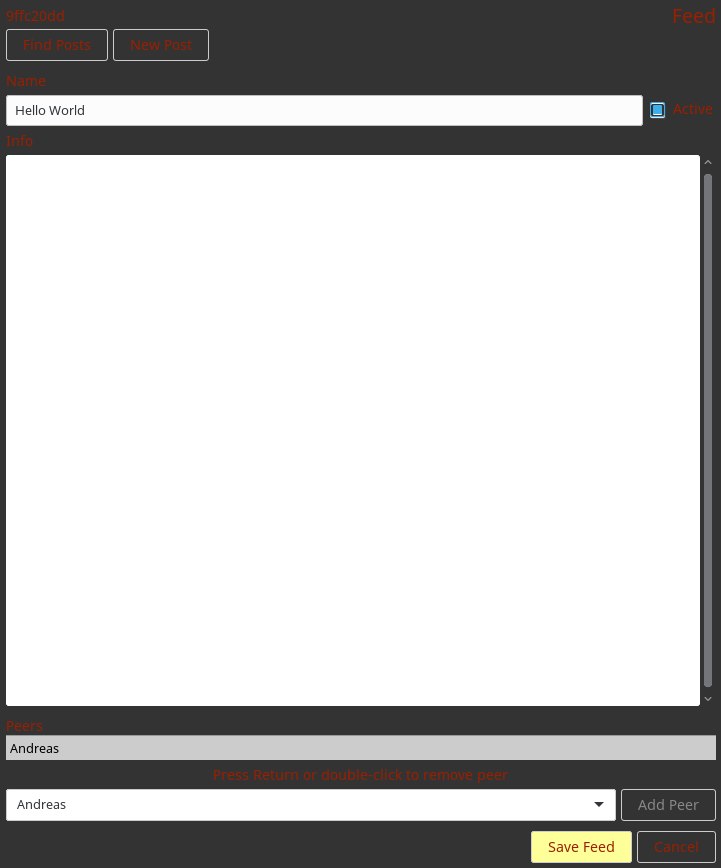
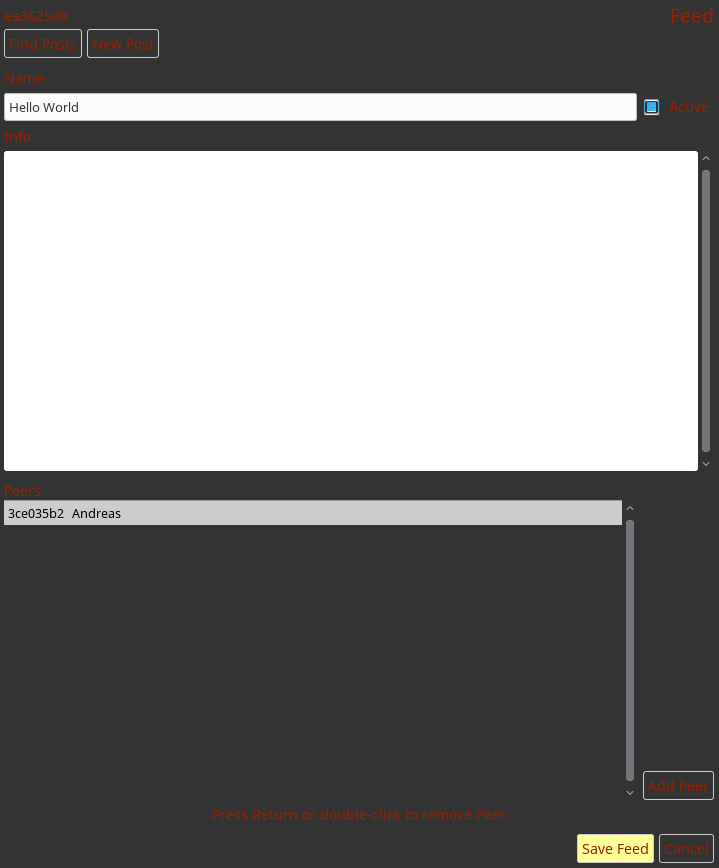
removed view init

diff --git a/src/snackis/gui/project_view.cpp b/src/snackis/gui/project_view.cpp
@@ -10,20 +10,6 @@
 
 namespace snackis {
 namespace gui {
-  ProjectView::ProjectView(const Project &rec):
-    RecView<Project>("Project", rec),
-    find_tasks_btn(gtk_button_new_with_mnemonic("_Find Tasks")),
-    new_task_btn(gtk_button_new_with_mnemonic("New _Task")),
-    find_posts_btn(gtk_button_new_with_mnemonic("Find Posts")),
-    post_btn(gtk_button_new_with_mnemonic("New _Post")),
-    name_fld(gtk_entry_new()),
-    active_fld(gtk_check_button_new_with_label("Active")),    
-    info_fld(new_text_view()),
-    peer_lst(ctx, "Peer", this->rec.peer_ids)
-  {
-    load(peer_lst);
-  }
-
   static void on_find_tasks(gpointer *_, ProjectView *v) {
     TaskSearch *ts = new TaskSearch(v->ctx);
     ts->project.emplace(v->rec);
@@ -54,8 +40,18 @@ namespace gui {
 
     db::commit(trans);
   }
-  
-  void ProjectView::init() {
+
+  ProjectView::ProjectView(const Project &rec):
+    RecView<Project>("Project", rec),
+    find_tasks_btn(gtk_button_new_with_mnemonic("_Find Tasks")),
+    new_task_btn(gtk_button_new_with_mnemonic("New _Task")),
+    find_posts_btn(gtk_button_new_with_mnemonic("Find Posts")),
+    post_btn(gtk_button_new_with_mnemonic("New _Post")),
+    name_fld(gtk_entry_new()),
+    active_fld(gtk_check_button_new_with_label("Active")),    
+    info_fld(new_text_view()),
+    peer_lst(ctx, "Peer", this->rec.peer_ids)
+  {
     GtkWidget *lbl;
 
     GtkWidget *btns = gtk_box_new(GTK_ORIENTATION_HORIZONTAL, 5);
@@ -90,6 +86,7 @@ namespace gui {
     gtk_widget_set_margin_top(peer_lst.ptr(), 5);
     gtk_container_add(GTK_CONTAINER(fields), peer_lst.ptr());
 
+    load(peer_lst);
     focused = name_fld;
   }
 

diff --git a/src/snackis/gui/search_view.hpp b/src/snackis/gui/search_view.hpp
@@ -19,8 +19,7 @@ namespace gui {
     GtkWidget *fields, *find_btn, *list, *cancel_btn;
     OnActivate on_activate;
     
-    SearchView(Ctx &ctx, const str &lbl, GtkListStore *store, OnActivate act);
-    virtual void init() override;
+    SearchView(Ctx &ctx, const str &type, GtkListStore *store, OnActivate act);
     virtual void find()=0;
   };
 
@@ -48,20 +47,17 @@ namespace gui {
   
   template <typename RecT>
   SearchView<RecT>::SearchView(Ctx &ctx,
-			       const str &lbl,
+			       const str &type,
 			       GtkListStore *store,
 			       OnActivate act):
-    View(ctx, fmt("%0 Search", lbl)),
+    View(ctx, fmt("%0 Search", type)),
     store(store),
     fields(gtk_box_new(GTK_ORIENTATION_VERTICAL, 5)),
-    find_btn(gtk_button_new_with_mnemonic(fmt("_Find %0s", lbl).c_str())),
+    find_btn(gtk_button_new_with_mnemonic(fmt("_Find %0s", type).c_str())),
     list(new_tree_view(GTK_TREE_MODEL(store))),
     cancel_btn(gtk_button_new_with_mnemonic("_Cancel")),
     on_activate(act)
-  { }
-
-  template <typename RecT>
-  void SearchView<RecT>::init() {
+  {
     GtkWidget *lbl;
     gtk_box_pack_start(GTK_BOX(panel), fields, false, false, 0);
     
@@ -75,7 +71,8 @@ namespace gui {
 		     G_CALLBACK(on_search_activate<RecT>),
 		     this);
     gtk_container_add(GTK_CONTAINER(panel), gtk_widget_get_parent(list));
-    lbl = gtk_label_new("Press Return or double-click to select");
+    lbl = gtk_label_new(fmt("Press Return or double-click to select %0",
+			    type).c_str());
     gtk_container_add(GTK_CONTAINER(panel), lbl);
 
     GtkWidget *btns = gtk_box_new(GTK_ORIENTATION_HORIZONTAL, 5);

diff --git a/src/snackis/gui/task_view.cpp b/src/snackis/gui/task_view.cpp
@@ -50,19 +50,6 @@ namespace gui {
     }
   }
 
-  TaskView::TaskView(const Task &rec):
-    RecView("Task", rec),
-    project_store(gtk_list_store_new(3, G_TYPE_POINTER,
-				     G_TYPE_STRING, G_TYPE_STRING)),
-    find_posts_btn(gtk_button_new_with_mnemonic("_Find Posts")),
-    post_btn(gtk_button_new_with_mnemonic("New _Post")),
-    project_fld(new_combo_box(GTK_TREE_MODEL(project_store))),
-    edit_project_btn(gtk_button_new_with_mnemonic("_Edit Project")),
-    name_fld(gtk_entry_new()),
-    done_fld(gtk_check_button_new_with_mnemonic("_Done")),
-    info_fld(new_text_view()) {
-  }
-
   static void on_find_posts(gpointer *_, TaskView *v) {
     PostSearch *ps = new PostSearch(v->ctx);
     select<Feed>(ps->feed_fld, get_feed_id(v->ctx, v->rec.id));
@@ -80,8 +67,19 @@ namespace gui {
 
     db::commit(trans);
   }
-  
-  void TaskView::init() {
+
+  TaskView::TaskView(const Task &rec):
+    RecView("Task", rec),
+    project_store(gtk_list_store_new(3, G_TYPE_POINTER,
+				     G_TYPE_STRING, G_TYPE_STRING)),
+    find_posts_btn(gtk_button_new_with_mnemonic("_Find Posts")),
+    post_btn(gtk_button_new_with_mnemonic("New _Post")),
+    project_fld(new_combo_box(GTK_TREE_MODEL(project_store))),
+    edit_project_btn(gtk_button_new_with_mnemonic("_Edit Project")),
+    name_fld(gtk_entry_new()),
+    done_fld(gtk_check_button_new_with_mnemonic("_Done")),
+    info_fld(new_text_view())
+  {
     GtkWidget *lbl;
 
     GtkWidget *btns = gtk_box_new(GTK_ORIENTATION_HORIZONTAL, 5);

diff --git a/src/snackis/gui/encrypt.cpp b/src/snackis/gui/encrypt.cpp
@@ -57,18 +57,24 @@ namespace gui {
 
   static void on_save(gpointer *_, Encrypt *v) {
     Ctx &ctx(v->ctx);
-    const str
-      in_path(gtk_entry_get_text(GTK_ENTRY(v->source))),
-      out_path(gtk_entry_get_text(GTK_ENTRY(v->target)));
-	    
-    log(ctx, fmt("Encrypting from '%0' to '%1'...", in_path, out_path));
-    Peer peer(ctx, *get_sel_rec<Peer>(GTK_COMBO_BOX(v->peer)));
-    
-    encrypt(peer,
-	    in_path, out_path,
-	    gtk_toggle_button_get_active(GTK_TOGGLE_BUTTON(v->encode)));
-    
-    log(v->ctx, "Finished encrypting");
+
+    try {
+      const str
+	in_path(gtk_entry_get_text(GTK_ENTRY(v->source))),
+	out_path(gtk_entry_get_text(GTK_ENTRY(v->target)));
+      
+      log(ctx, fmt("Encrypting from '%0' to '%1'...", in_path, out_path));
+      Peer peer(ctx, *get_sel_rec<Peer>(GTK_COMBO_BOX(v->peer)));
+      
+      encrypt(peer,
+	      in_path, out_path,
+	      gtk_toggle_button_get_active(GTK_TOGGLE_BUTTON(v->encode)));
+      
+      log(v->ctx, "Finished encrypting");
+    } catch (const std::exception &e) {
+      log(v->ctx, fmt("Encryption failed: %0", e.what()));
+    }
+
     pop_view(*v);
   }
 
@@ -138,9 +144,7 @@ namespace gui {
     encode(gtk_check_button_new_with_label("Encode")),
     save(gtk_button_new_with_mnemonic("_Save Encrypted File")),
     cancel(gtk_button_new_with_mnemonic("_Cancel"))
-  { }
-
-  void Encrypt::init() {
+  {
     GtkWidget *lbl;
 
     GtkWidget *frm(gtk_box_new(GTK_ORIENTATION_VERTICAL, 5));

diff --git a/src/snackis/gui/decrypt.cpp b/src/snackis/gui/decrypt.cpp
@@ -57,18 +57,24 @@ namespace gui {
 
   static void on_save(gpointer *_, Decrypt *v) {
     Ctx &ctx(v->ctx);
-    const str
-      in_path(gtk_entry_get_text(GTK_ENTRY(v->source))),
-      out_path(gtk_entry_get_text(GTK_ENTRY(v->target)));
-	    
-    log(ctx, fmt("Decrypting '%0' to '%1'...", in_path, out_path));
-    Peer peer(ctx, *get_sel_rec<Peer>(GTK_COMBO_BOX(v->peer)));
-    
-    decrypt(peer,
-	    in_path, out_path,
-	    gtk_toggle_button_get_active(GTK_TOGGLE_BUTTON(v->decode)));
-    
-    log(v->ctx, "Finished decrypting");
+
+    try {
+      const str
+	in_path(gtk_entry_get_text(GTK_ENTRY(v->source))),
+	out_path(gtk_entry_get_text(GTK_ENTRY(v->target)));
+      
+      log(ctx, fmt("Decrypting '%0' to '%1'...", in_path, out_path));
+      Peer peer(ctx, *get_sel_rec<Peer>(GTK_COMBO_BOX(v->peer)));
+      
+      decrypt(peer,
+	      in_path, out_path,
+	      gtk_toggle_button_get_active(GTK_TOGGLE_BUTTON(v->decode)));
+      
+      log(v->ctx, "Finished decrypting");
+    } catch (std::exception &e) {
+       log(v->ctx, fmt("Decryption failed: %0", e.what()));
+   }
+
     pop_view(*v);
   }
 
@@ -137,9 +143,7 @@ namespace gui {
     decode(gtk_check_button_new_with_label("Decode")),
     save(gtk_button_new_with_mnemonic("_Save Decrypted File")),
     cancel(gtk_button_new_with_mnemonic("_Cancel"))
-  { }
-
-  void Decrypt::init() {
+  {
     GtkWidget *lbl;
 
     GtkWidget *frm = gtk_box_new(GTK_ORIENTATION_VERTICAL, 5);

diff --git a/src/snackis/gui/post_view.cpp b/src/snackis/gui/post_view.cpp
@@ -68,15 +68,6 @@ namespace gui {
     post_lst(new_tree_view(GTK_TREE_MODEL(post_store))),
     feed_fld(ctx)
   {
-    feed_fld.on_change.emplace([this]() {
-	load_posts(*this);
-	auto sel(feed_fld.selected ? true : false);
-	gtk_widget_set_sensitive(edit_feed_btn, sel);
-	refresh(*this);
-      });
-  }
-
-  void PostView::init() {
     GtkWidget *lbl;
 
     lbl = gtk_label_new("Feed");
@@ -84,6 +75,14 @@ namespace gui {
     gtk_container_add(GTK_CONTAINER(fields), lbl);
     GtkWidget *feed_box = gtk_box_new(GTK_ORIENTATION_HORIZONTAL, 5);
     gtk_container_add(GTK_CONTAINER(fields), feed_box);
+
+    feed_fld.on_change.emplace([this]() {
+	load_posts(*this);
+	auto sel(feed_fld.selected ? true : false);
+	gtk_widget_set_sensitive(edit_feed_btn, sel);
+	refresh(*this);
+      });
+
     gtk_container_add(GTK_CONTAINER(feed_box), feed_fld.ptr());
     g_signal_connect(edit_feed_btn, "clicked", G_CALLBACK(on_edit_feed), this);
     gtk_widget_set_sensitive(edit_feed_btn, false);

diff --git a/src/snackis/gui/view.cpp b/src/snackis/gui/view.cpp
@@ -12,8 +12,7 @@ namespace gui {
     panel(gtk_box_new(GTK_ORIENTATION_VERTICAL, 0)),
     label(gtk_label_new(lbl.c_str())),
     info(gtk_label_new(inf.c_str())),
-    focused(panel),
-    needs_init(true) { 
+    focused(panel) { 
     add_style(panel, "view");
     gtk_widget_set_margin_start(panel, 5);
     gtk_widget_set_margin_end(panel, 5);
@@ -39,8 +38,6 @@ namespace gui {
   }
   
   void push_view(View &v) {
-    if (v.needs_init) { v.init(); }
-	   
     if (!View::stack.empty()) {
       View *prev(View::stack.back());
       prev->focused = gtk_window_get_focus(GTK_WINDOW(window));

diff --git a/src/snackis/gui/feed_view.cpp b/src/snackis/gui/feed_view.cpp
@@ -36,10 +36,6 @@ namespace gui {
     info_fld(new_text_view()),
     peer_lst(ctx, "Peer", this->rec.peer_ids)
   {
-    load(peer_lst);
-  }
-
-  void FeedView::init() {
     GtkWidget *lbl;
 
     GtkWidget *btns = gtk_box_new(GTK_ORIENTATION_HORIZONTAL, 5);
@@ -69,7 +65,9 @@ namespace gui {
 
     gtk_widget_set_margin_top(peer_lst.ptr(), 5);
     gtk_container_add(GTK_CONTAINER(fields), peer_lst.ptr());
+
     focused = name_fld;
+    load(peer_lst);
     refresh(*this);
   }
 

diff --git a/src/snackis/gui/peer_search.cpp b/src/snackis/gui/peer_search.cpp
@@ -25,10 +25,7 @@ namespace gui {
     id_fld(new_id_field()),
     name_fld(gtk_entry_new()),
     email_fld(gtk_entry_new())
-  { }
-
-  void PeerSearch::init() {
-    SearchView<Peer>::init();
+  {
     GtkWidget *lbl;
 
     auto name_box(gtk_grid_new());
@@ -59,7 +56,7 @@ namespace gui {
 
     focused = id_fld;
   }
-  
+
   void PeerSearch::find() {
     size_t cnt(0);    
     str id_sel(trim(gtk_entry_get_text(GTK_ENTRY(id_fld))));

diff --git a/src/snackis/gui/setup.cpp b/src/snackis/gui/setup.cpp
@@ -359,9 +359,7 @@ namespace gui {
     smtp_poll(gtk_entry_new()),
     save(gtk_button_new_with_mnemonic("_Save Setup")),
     cancel(gtk_button_new_with_mnemonic("_Cancel"))
-  { }
-
-  void Setup::init() {
+  {
     GtkWidget *tabs = gtk_notebook_new();
     gtk_widget_set_vexpand(tabs, true);
     gtk_notebook_append_page(GTK_NOTEBOOK(tabs),

diff --git a/src/snackis/gui/task_search.cpp b/src/snackis/gui/task_search.cpp
@@ -154,10 +154,7 @@ namespace gui {
     project_fld(new_combo_box(GTK_TREE_MODEL(project_store))),
     queue_fld(new_combo_box(GTK_TREE_MODEL(queue_store))),
     peer_fld(ctx)
-  { }
-
-  void TaskSearch::init() {
-    SearchView<Task>::init();
+  {
     GtkWidget *lbl;
 
     GtkWidget *top_box = gtk_grid_new();

diff --git a/src/snackis/gui/view.hpp b/src/snackis/gui/view.hpp
@@ -11,11 +11,9 @@ namespace gui {
     static std::vector<View *> stack;
     Ctx &ctx;
     GtkWidget *panel, *label, *info, *focused;
-    bool needs_init;
     
     View(Ctx &ctx, const str &lbl, const str &inf="");
     virtual ~View();
-    virtual void init()=0;
     GtkWidget *ptr() override;
   };
 
